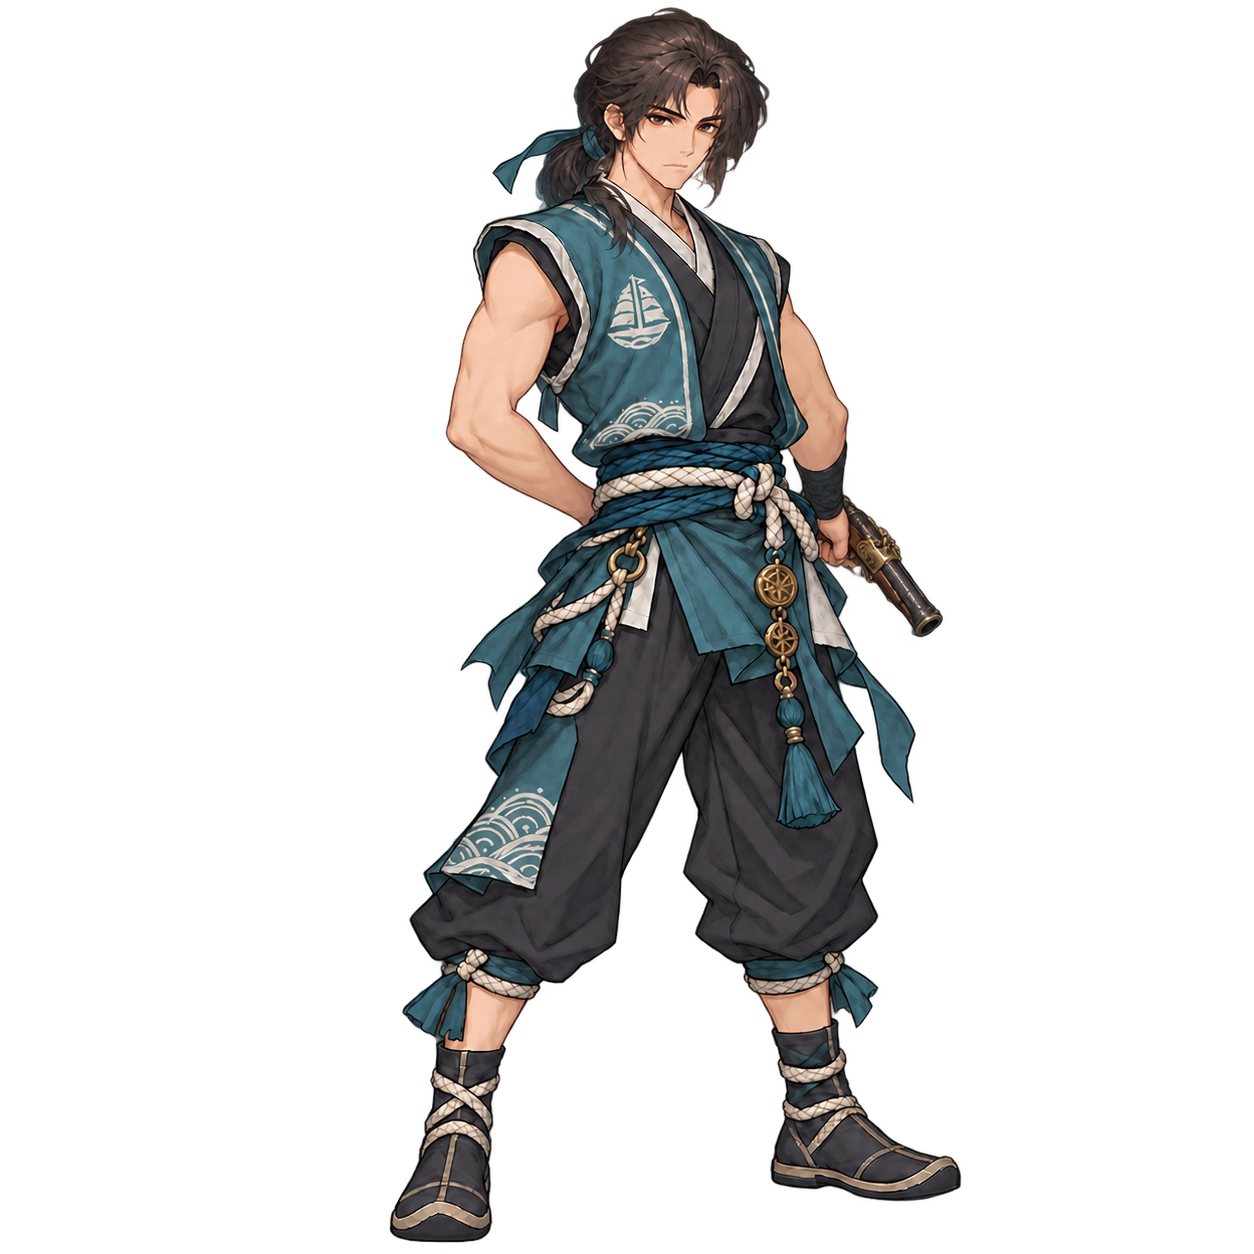
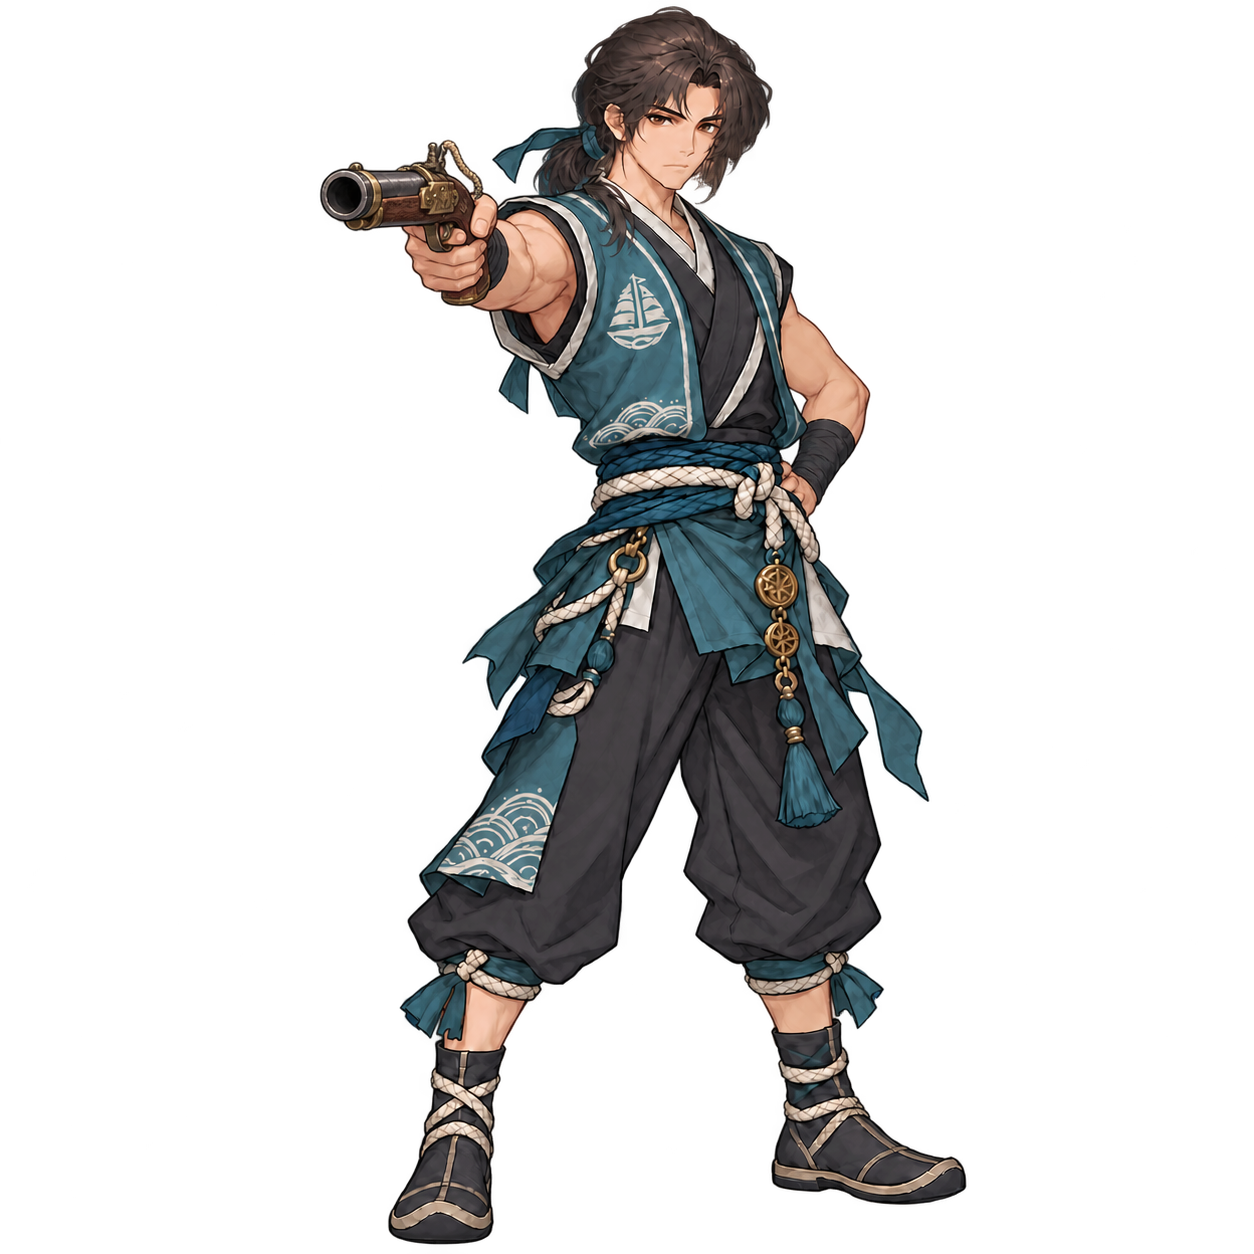
art: refine faction anatomy poses and paired weapons
Constraint: Preserve existing faces, faction motifs and painted style across ten requested assets.
Directive: Keep paired weapons consistent and image revisions aligned with content hashes.
Confidence: high

diff --git a/docs/wardrobe.html b/docs/wardrobe.html
@@ -106,11 +106,11 @@
   document.querySelectorAll('[data-description]').forEach(button=>button.addEventListener('click',()=>{descriptionGender=button.dataset.description;choose(entries.find(entry=>entry.id===selectedId),false);}));
   async function load() {
     try {
-      const response=await fetch('assets/outfits-v5/manifest.json?v=20261027-baekui-salute-v3', {cache:'no-store'}); if(!response.ok)throw new Error('manifest');
+      const response=await fetch('assets/outfits-v5/manifest.json?v=20261027-proportion-weapons', {cache:'no-store'}); if(!response.ok)throw new Error('manifest');
       const male=await response.json();
       const valid=e=>e&&typeof e.id==='string'&&typeof e.name==='string'&&typeof e.file==='string'&&/^[a-z0-9_-]+\.png$/i.test(e.file);
       entries=(male.entries||[]).filter(valid); if(!entries.length)throw new Error('empty');
-      let female={entries:[]}; try {const result=await fetch('assets/outfits-female-v1/manifest.json?v=20261027-baekui-salute-v3', {cache:'no-store'});if(result.ok)female=await result.json();}catch {}
+      let female={entries:[]}; try {const result=await fetch('assets/outfits-female-v1/manifest.json?v=20261027-proportion-weapons', {cache:'no-store'});if(result.ok)female=await result.json();}catch {}
       const pending=(female.entries||[]).filter(valid);
       femaleEntries=new Map(pending.map(entry=>[entry.id,{...entry,ready:entry.status!=='pending'}]));
       $('completion').textContent='백의 + '+(entries.length-1)+'세력 · 남녀 의상';
